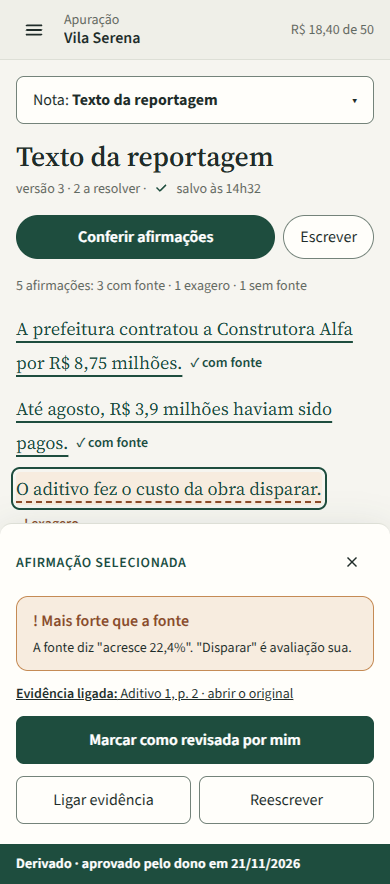
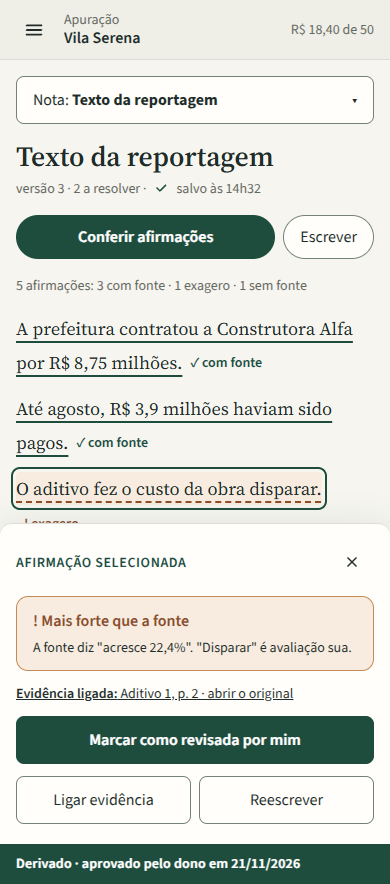
fix: frases do caderno na cor do texto, como na especificação
As frases do modo "Conferir afirmações" saíam em verde. A cor vinha da regra
genérica de link das pranchas (.pr a:not(.bt)), mais específica que o
color:inherit de .af, e não de uma decisão de desenho. gerar_propostas e
gerar_caderno_aberto agora fixam --theme-text nas frases; o sinal continua
no sublinhado e no rótulo. Foram regeneradas as pranchas do caderno e os
comparativos. A correção está registrada no LEIA-ME do caderno (o layout
aprovado não muda; se o dono preferir o verde, volta) e a cor ficou
explícita em componentes.md.

Changed region(s): [[0.1231, 0.3971, 0.1538, 0.4276]]

diff --git a/docs/design/aprovacao/ferramentas/fonte/caderno-proposta-claro-1440.html b/docs/design/aprovacao/ferramentas/fonte/caderno-proposta-claro-1440.html
@@ -1,6 +1,7 @@
 <!doctype html><html lang="pt-BR" data-theme="light"><head><meta charset="utf-8"><style>@font-face{font-family:"Source Serif 4";src:url('../../../../../interface/fonts/SourceSerif4-Roman.ttf') format('truetype');font-weight:200 900}
 @font-face{font-family:"Source Sans 3";src:url('../../../../../interface/fonts/SourceSans3-Upright.otf') format('opentype');font-weight:200 900}
 .af{text-decoration:none;color:inherit;padding:4px 0;text-underline-offset:6px;text-decoration-thickness:2px;text-decoration-line:underline}
+.pr a.af:not(.bt){color:var(--theme-text)}
 .af-ok{text-decoration-color:var(--theme-accent)}.af-ex{text-decoration-style:dashed;text-decoration-color:var(--theme-warning)}.af-sf{text-decoration-style:dotted;text-decoration-color:var(--theme-input-line)}
 .af-sel{outline:2px solid var(--theme-accent);outline-offset:3px;border-radius:4px;background:var(--theme-warning-bg)}
 .marca-af{font:600 14px/1 var(--sans);white-space:nowrap;margin-left:8px;display:inline-flex;align-items:center;gap:4px;vertical-align:2px}

diff --git a/docs/design/aprovacao/ferramentas/fonte/caderno-proposta-claro-390.html b/docs/design/aprovacao/ferramentas/fonte/caderno-proposta-claro-390.html
@@ -1,6 +1,7 @@
 <!doctype html><html lang="pt-BR" data-theme="light"><head><meta charset="utf-8"><style>@font-face{font-family:"Source Serif 4";src:url('../../../../../interface/fonts/SourceSerif4-Roman.ttf') format('truetype');font-weight:200 900}
 @font-face{font-family:"Source Sans 3";src:url('../../../../../interface/fonts/SourceSans3-Upright.otf') format('opentype');font-weight:200 900}
 .af{text-decoration:none;color:inherit;padding:4px 0;text-underline-offset:6px;text-decoration-thickness:2px;text-decoration-line:underline}
+.pr a.af:not(.bt){color:var(--theme-text)}
 .af-ok{text-decoration-color:var(--theme-accent)}.af-ex{text-decoration-style:dashed;text-decoration-color:var(--theme-warning)}.af-sf{text-decoration-style:dotted;text-decoration-color:var(--theme-input-line)}
 .af-sel{outline:2px solid var(--theme-accent);outline-offset:3px;border-radius:4px;background:var(--theme-warning-bg)}
 .marca-af{font:600 14px/1 var(--sans);white-space:nowrap;margin-left:8px;display:inline-flex;align-items:center;gap:4px;vertical-align:2px}

diff --git a/docs/design/aprovacao/ferramentas/fonte/caderno-proposta-escuro-1440.html b/docs/design/aprovacao/ferramentas/fonte/caderno-proposta-escuro-1440.html
@@ -1,6 +1,7 @@
 <!doctype html><html lang="pt-BR" data-theme="dark"><head><meta charset="utf-8"><style>@font-face{font-family:"Source Serif 4";src:url('../../../../../interface/fonts/SourceSerif4-Roman.ttf') format('truetype');font-weight:200 900}
 @font-face{font-family:"Source Sans 3";src:url('../../../../../interface/fonts/SourceSans3-Upright.otf') format('opentype');font-weight:200 900}
 .af{text-decoration:none;color:inherit;padding:4px 0;text-underline-offset:6px;text-decoration-thickness:2px;text-decoration-line:underline}
+.pr a.af:not(.bt){color:var(--theme-text)}
 .af-ok{text-decoration-color:var(--theme-accent)}.af-ex{text-decoration-style:dashed;text-decoration-color:var(--theme-warning)}.af-sf{text-decoration-style:dotted;text-decoration-color:var(--theme-input-line)}
 .af-sel{outline:2px solid var(--theme-accent);outline-offset:3px;border-radius:4px;background:var(--theme-warning-bg)}
 .marca-af{font:600 14px/1 var(--sans);white-space:nowrap;margin-left:8px;display:inline-flex;align-items:center;gap:4px;vertical-align:2px}

diff --git a/docs/design/aprovacao/ferramentas/fonte/caderno-proposta-escuro-390.html b/docs/design/aprovacao/ferramentas/fonte/caderno-proposta-escuro-390.html
@@ -1,6 +1,7 @@
 <!doctype html><html lang="pt-BR" data-theme="dark"><head><meta charset="utf-8"><style>@font-face{font-family:"Source Serif 4";src:url('../../../../../interface/fonts/SourceSerif4-Roman.ttf') format('truetype');font-weight:200 900}
 @font-face{font-family:"Source Sans 3";src:url('../../../../../interface/fonts/SourceSans3-Upright.otf') format('opentype');font-weight:200 900}
 .af{text-decoration:none;color:inherit;padding:4px 0;text-underline-offset:6px;text-decoration-thickness:2px;text-decoration-line:underline}
+.pr a.af:not(.bt){color:var(--theme-text)}
 .af-ok{text-decoration-color:var(--theme-accent)}.af-ex{text-decoration-style:dashed;text-decoration-color:var(--theme-warning)}.af-sf{text-decoration-style:dotted;text-decoration-color:var(--theme-input-line)}
 .af-sel{outline:2px solid var(--theme-accent);outline-offset:3px;border-radius:4px;background:var(--theme-warning-bg)}
 .marca-af{font:600 14px/1 var(--sans);white-space:nowrap;margin-left:8px;display:inline-flex;align-items:center;gap:4px;vertical-align:2px}

diff --git a/docs/design/aprovacao/ferramentas/fonte/caderno-proposta-escrever-claro-1440.html b/docs/design/aprovacao/ferramentas/fonte/caderno-proposta-escrever-claro-1440.html
@@ -1,5 +1,6 @@
 <!doctype html><html lang="pt-BR" data-theme="light"><head><meta charset="utf-8"><style>@font-face{font-family:"Source Serif 4";src:url('../../../../../interface/fonts/SourceSerif4-Roman.ttf') format('truetype');font-weight:200 900}
 @font-face{font-family:"Source Sans 3";src:url('../../../../../interface/fonts/SourceSans3-Upright.otf') format('opentype');font-weight:200 900}.af{text-decoration:none;color:inherit;padding:4px 0;text-underline-offset:6px;text-decoration-thickness:2px;text-decoration-line:underline}
+.pr a.af:not(.bt){color:var(--theme-text)}
 .af-ok{text-decoration-color:var(--theme-accent)}.af-ex{text-decoration-style:dashed;text-decoration-color:var(--theme-warning)}.af-sf{text-decoration-style:dotted;text-decoration-color:var(--theme-input-line)}
 .af-rev{text-decoration-style:double;text-decoration-color:var(--theme-accent);text-decoration-thickness:1.5px}
 .marca-af{font:600 14px/1 var(--sans);white-space:nowrap;margin-left:8px;display:inline-flex;align-items:center;gap:4px;vertical-align:2px}

diff --git a/docs/design/aprovacao/ferramentas/fonte/caderno-proposta-escrever-claro-390.html b/docs/design/aprovacao/ferramentas/fonte/caderno-proposta-escrever-claro-390.html
@@ -1,5 +1,6 @@
 <!doctype html><html lang="pt-BR" data-theme="light"><head><meta charset="utf-8"><style>@font-face{font-family:"Source Serif 4";src:url('../../../../../interface/fonts/SourceSerif4-Roman.ttf') format('truetype');font-weight:200 900}
 @font-face{font-family:"Source Sans 3";src:url('../../../../../interface/fonts/SourceSans3-Upright.otf') format('opentype');font-weight:200 900}.af{text-decoration:none;color:inherit;padding:4px 0;text-underline-offset:6px;text-decoration-thickness:2px;text-decoration-line:underline}
+.pr a.af:not(.bt){color:var(--theme-text)}
 .af-ok{text-decoration-color:var(--theme-accent)}.af-ex{text-decoration-style:dashed;text-decoration-color:var(--theme-warning)}.af-sf{text-decoration-style:dotted;text-decoration-color:var(--theme-input-line)}
 .af-rev{text-decoration-style:double;text-decoration-color:var(--theme-accent);text-decoration-thickness:1.5px}
 .marca-af{font:600 14px/1 var(--sans);white-space:nowrap;margin-left:8px;display:inline-flex;align-items:center;gap:4px;vertical-align:2px}

diff --git a/docs/design/aprovacao/ferramentas/fonte/caderno-proposta-trechos-claro-1440.html b/docs/design/aprovacao/ferramentas/fonte/caderno-proposta-trechos-claro-1440.html
@@ -1,5 +1,6 @@
 <!doctype html><html lang="pt-BR" data-theme="light"><head><meta charset="utf-8"><style>@font-face{font-family:"Source Serif 4";src:url('../../../../../interface/fonts/SourceSerif4-Roman.ttf') format('truetype');font-weight:200 900}
 @font-face{font-family:"Source Sans 3";src:url('../../../../../interface/fonts/SourceSans3-Upright.otf') format('opentype');font-weight:200 900}.af{text-decoration:none;color:inherit;padding:4px 0;text-underline-offset:6px;text-decoration-thickness:2px;text-decoration-line:underline}
+.pr a.af:not(.bt){color:var(--theme-text)}
 .af-ok{text-decoration-color:var(--theme-accent)}.af-ex{text-decoration-style:dashed;text-decoration-color:var(--theme-warning)}.af-sf{text-decoration-style:dotted;text-decoration-color:var(--theme-input-line)}
 .af-rev{text-decoration-style:double;text-decoration-color:var(--theme-accent);text-decoration-thickness:1.5px}
 .marca-af{font:600 14px/1 var(--sans);white-space:nowrap;margin-left:8px;display:inline-flex;align-items:center;gap:4px;vertical-align:2px}

diff --git a/docs/design/aprovacao/ferramentas/fonte/caderno-proposta-trechos-claro-390.html b/docs/design/aprovacao/ferramentas/fonte/caderno-proposta-trechos-claro-390.html
@@ -1,5 +1,6 @@
 <!doctype html><html lang="pt-BR" data-theme="light"><head><meta charset="utf-8"><style>@font-face{font-family:"Source Serif 4";src:url('../../../../../interface/fonts/SourceSerif4-Roman.ttf') format('truetype');font-weight:200 900}
 @font-face{font-family:"Source Sans 3";src:url('../../../../../interface/fonts/SourceSans3-Upright.otf') format('opentype');font-weight:200 900}.af{text-decoration:none;color:inherit;padding:4px 0;text-underline-offset:6px;text-decoration-thickness:2px;text-decoration-line:underline}
+.pr a.af:not(.bt){color:var(--theme-text)}
 .af-ok{text-decoration-color:var(--theme-accent)}.af-ex{text-decoration-style:dashed;text-decoration-color:var(--theme-warning)}.af-sf{text-decoration-style:dotted;text-decoration-color:var(--theme-input-line)}
 .af-rev{text-decoration-style:double;text-decoration-color:var(--theme-accent);text-decoration-thickness:1.5px}
 .marca-af{font:600 14px/1 var(--sans);white-space:nowrap;margin-left:8px;display:inline-flex;align-items:center;gap:4px;vertical-align:2px}

diff --git a/docs/design/aprovacao/ferramentas/fonte/caderno-proposta-escrever-escuro-1440.html b/docs/design/aprovacao/ferramentas/fonte/caderno-proposta-escrever-escuro-1440.html
@@ -1,5 +1,6 @@
 <!doctype html><html lang="pt-BR" data-theme="dark"><head><meta charset="utf-8"><style>@font-face{font-family:"Source Serif 4";src:url('../../../../../interface/fonts/SourceSerif4-Roman.ttf') format('truetype');font-weight:200 900}
 @font-face{font-family:"Source Sans 3";src:url('../../../../../interface/fonts/SourceSans3-Upright.otf') format('opentype');font-weight:200 900}.af{text-decoration:none;color:inherit;padding:4px 0;text-underline-offset:6px;text-decoration-thickness:2px;text-decoration-line:underline}
+.pr a.af:not(.bt){color:var(--theme-text)}
 .af-ok{text-decoration-color:var(--theme-accent)}.af-ex{text-decoration-style:dashed;text-decoration-color:var(--theme-warning)}.af-sf{text-decoration-style:dotted;text-decoration-color:var(--theme-input-line)}
 .af-rev{text-decoration-style:double;text-decoration-color:var(--theme-accent);text-decoration-thickness:1.5px}
 .marca-af{font:600 14px/1 var(--sans);white-space:nowrap;margin-left:8px;display:inline-flex;align-items:center;gap:4px;vertical-align:2px}

diff --git a/docs/design/aprovacao/ferramentas/fonte/caderno-proposta-escrever-escuro-390.html b/docs/design/aprovacao/ferramentas/fonte/caderno-proposta-escrever-escuro-390.html
@@ -1,5 +1,6 @@
 <!doctype html><html lang="pt-BR" data-theme="dark"><head><meta charset="utf-8"><style>@font-face{font-family:"Source Serif 4";src:url('../../../../../interface/fonts/SourceSerif4-Roman.ttf') format('truetype');font-weight:200 900}
 @font-face{font-family:"Source Sans 3";src:url('../../../../../interface/fonts/SourceSans3-Upright.otf') format('opentype');font-weight:200 900}.af{text-decoration:none;color:inherit;padding:4px 0;text-underline-offset:6px;text-decoration-thickness:2px;text-decoration-line:underline}
+.pr a.af:not(.bt){color:var(--theme-text)}
 .af-ok{text-decoration-color:var(--theme-accent)}.af-ex{text-decoration-style:dashed;text-decoration-color:var(--theme-warning)}.af-sf{text-decoration-style:dotted;text-decoration-color:var(--theme-input-line)}
 .af-rev{text-decoration-style:double;text-decoration-color:var(--theme-accent);text-decoration-thickness:1.5px}
 .marca-af{font:600 14px/1 var(--sans);white-space:nowrap;margin-left:8px;display:inline-flex;align-items:center;gap:4px;vertical-align:2px}

diff --git a/docs/design/aprovacao/ferramentas/fonte/caderno-proposta-trechos-escuro-1440.html b/docs/design/aprovacao/ferramentas/fonte/caderno-proposta-trechos-escuro-1440.html
@@ -1,5 +1,6 @@
 <!doctype html><html lang="pt-BR" data-theme="dark"><head><meta charset="utf-8"><style>@font-face{font-family:"Source Serif 4";src:url('../../../../../interface/fonts/SourceSerif4-Roman.ttf') format('truetype');font-weight:200 900}
 @font-face{font-family:"Source Sans 3";src:url('../../../../../interface/fonts/SourceSans3-Upright.otf') format('opentype');font-weight:200 900}.af{text-decoration:none;color:inherit;padding:4px 0;text-underline-offset:6px;text-decoration-thickness:2px;text-decoration-line:underline}
+.pr a.af:not(.bt){color:var(--theme-text)}
 .af-ok{text-decoration-color:var(--theme-accent)}.af-ex{text-decoration-style:dashed;text-decoration-color:var(--theme-warning)}.af-sf{text-decoration-style:dotted;text-decoration-color:var(--theme-input-line)}
 .af-rev{text-decoration-style:double;text-decoration-color:var(--theme-accent);text-decoration-thickness:1.5px}
 .marca-af{font:600 14px/1 var(--sans);white-space:nowrap;margin-left:8px;display:inline-flex;align-items:center;gap:4px;vertical-align:2px}

diff --git a/docs/design/aprovacao/ferramentas/fonte/caderno-proposta-trechos-escuro-390.html b/docs/design/aprovacao/ferramentas/fonte/caderno-proposta-trechos-escuro-390.html
@@ -1,5 +1,6 @@
 <!doctype html><html lang="pt-BR" data-theme="dark"><head><meta charset="utf-8"><style>@font-face{font-family:"Source Serif 4";src:url('../../../../../interface/fonts/SourceSerif4-Roman.ttf') format('truetype');font-weight:200 900}
 @font-face{font-family:"Source Sans 3";src:url('../../../../../interface/fonts/SourceSans3-Upright.otf') format('opentype');font-weight:200 900}.af{text-decoration:none;color:inherit;padding:4px 0;text-underline-offset:6px;text-decoration-thickness:2px;text-decoration-line:underline}
+.pr a.af:not(.bt){color:var(--theme-text)}
 .af-ok{text-decoration-color:var(--theme-accent)}.af-ex{text-decoration-style:dashed;text-decoration-color:var(--theme-warning)}.af-sf{text-decoration-style:dotted;text-decoration-color:var(--theme-input-line)}
 .af-rev{text-decoration-style:double;text-decoration-color:var(--theme-accent);text-decoration-thickness:1.5px}
 .marca-af{font:600 14px/1 var(--sans);white-space:nowrap;margin-left:8px;display:inline-flex;align-items:center;gap:4px;vertical-align:2px}
